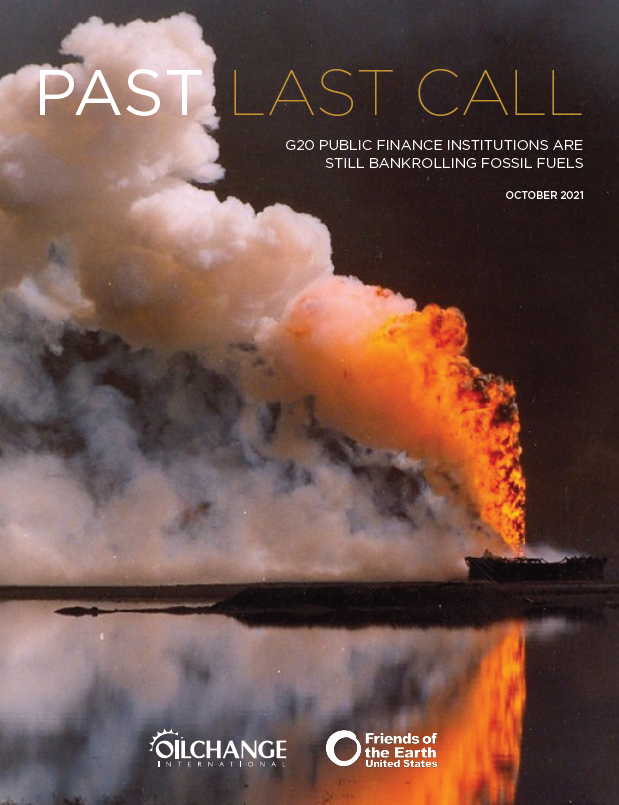
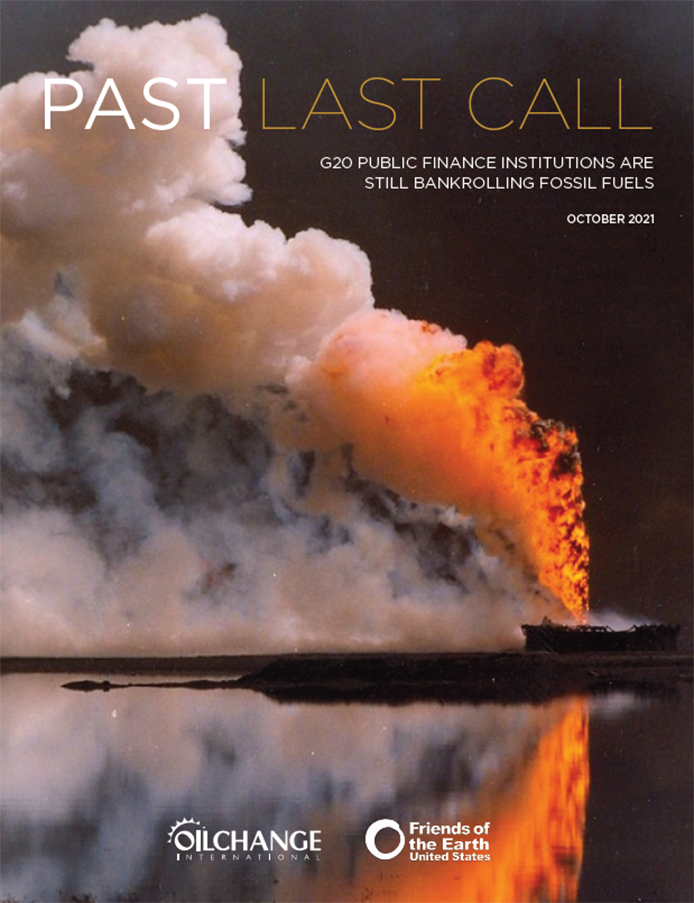
fix resources image sizes

diff --git a/src/Research/index.js b/src/Research/index.js
@@ -1,6 +1,7 @@
 import './styles.scss'
 import ReactMarkdown from 'react-markdown'
 import { useState, useEffect } from 'react'
+import classNames from 'classnames'
 export default function Research(props) {
   const { headerHeight } = props
   const [researchMarkdown, setResearchMarkdown] = useState('')
@@ -12,9 +13,18 @@ export default function Research(props) {
   const imageURI = (src, alt, title) => {
     return `${process.env.PUBLIC_URL}/${src}`
   }
+  const c = {
+    img: (node, inline, className, children, ...props) => {
+      return <div className='imageContainer'><img src={node.src} alt={node.alt} title={node.title}  /></div>
+    },
+    p: (node, inline, className, children, ...props) => {
+      const hasImage = node.children.some(child => child && child.props && child.props.node && child.props.node.tagName === 'img')
+      return <p className={classNames({hasImage})}>{node.children}</p>
+    }
+  }
   return (
     <div className='Research' style={{ marginTop: headerHeight}}>
-      <ReactMarkdown linkTarget='_blank' transformImageUri={imageURI}>{researchMarkdown}</ReactMarkdown>
+      <ReactMarkdown components={c} linkTarget='_blank' transformImageUri={imageURI}>{researchMarkdown}</ReactMarkdown>
     </div>
   )
 }

diff --git a/src/Research/styles.scss b/src/Research/styles.scss
@@ -8,6 +8,20 @@
   }
 
   img {
-    max-width: 33%;
+
+  }
+  p.hasImage {
+    display: flex;
+    .imageContainer {
+      position: relative;
+
+      +.imageContainer {
+        margin-left: 1em;
+      }
+      img {
+        width: 100%;
+        height: 100%;
+      }
+    }
   }
 }
